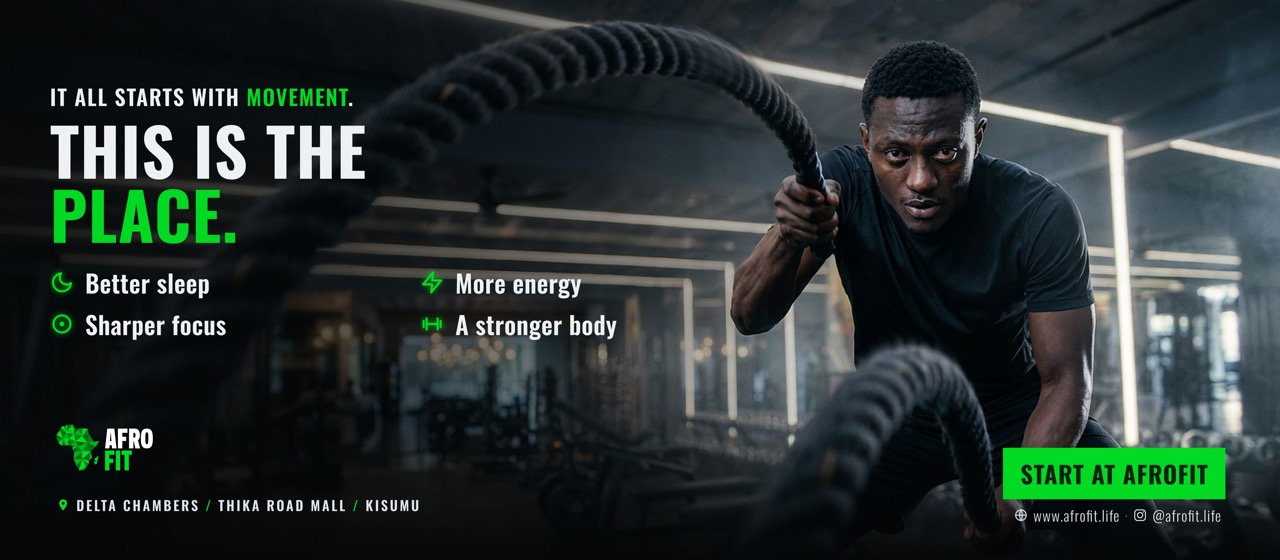
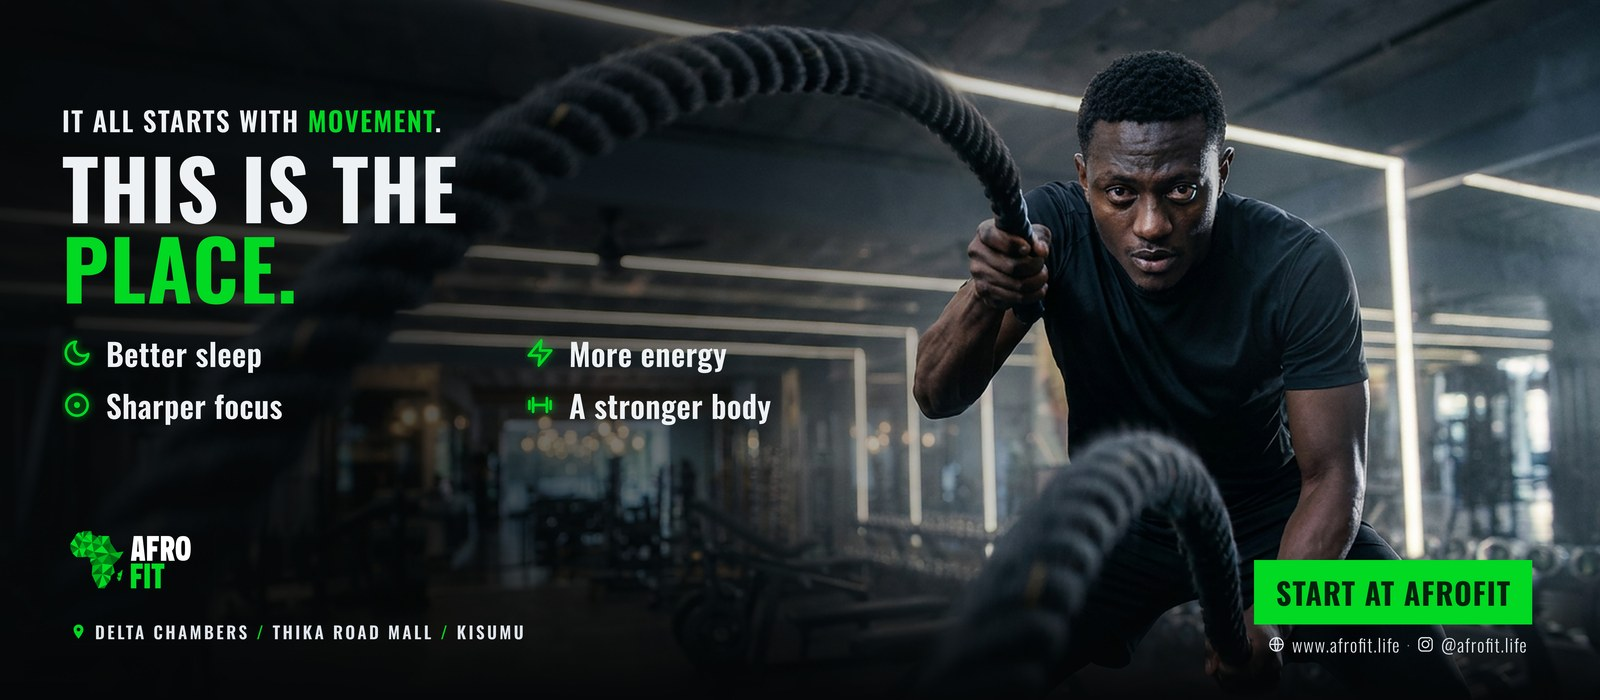
Hub: Figma Isaac newsletter hero, corrected scripts names, print-ready Class billboards, report PDF, Download-everything ZIP + print download buttons

diff --git a/index.html b/index.html
@@ -28,19 +28,30 @@
   details.opts summary::-webkit-details-marker{display:none}
   details.opts[open] summary{border-color:#01D923;color:#01D923;margin-bottom:16px}
   .foot{margin-top:30px;text-align:center;font-size:12px;color:#555;letter-spacing:.06em}
+  a.dlall{display:flex;align-items:center;justify-content:center;gap:8px;text-decoration:none;background:#01D923;color:#0a0a0a;border-radius:13px;padding:16px;text-align:center;font-weight:700;font-size:15px;letter-spacing:.06em;text-transform:uppercase;margin:0 0 8px}
+  a.dlall:active{background:#0bbf2a}
+  .dlhint{font-size:11px;color:#888;text-align:center;letter-spacing:.03em;margin-bottom:24px;line-height:1.4}
+  .cap2{font-size:12px;color:#777;letter-spacing:.08em;text-transform:uppercase;margin:0 0 8px;font-weight:500}
+  a.dl{display:inline-block;text-decoration:none;color:#01D923;font-size:11px;font-weight:600;letter-spacing:.1em;text-transform:uppercase;border:1px solid #2a3d26;border-radius:8px;padding:7px 13px;margin:0 0 20px}
+  a.dl:active{background:#161d16}
 </style>
 </head>
 <body>
 <div class="wrap">
   <div class="eyebrow">This Is The Place &nbsp;·&nbsp; July 2026</div>
   <h1>It&#39;s all <span class="lime">connected</span></h1>
-  <div class="sub">The July campaign in one place. Billboards, the newsletter, and a quick report.</div>
+  <div class="sub">The July campaign in one place. Billboards, the newsletter, the campaign and a quick report — view below, or download it all.</div>
+
+  <a class="dlall" href="afrofit-campaign.zip" download>&#8595;&nbsp; Download everything (ZIP)</a>
+  <div class="dlhint">Presentation, scripts, both billboards (print-ready) and the report, in one file.</div>
 
   <h2>The billboard — pick one</h2>
   <img class="board" src="billboard-class-A.jpg" alt="Class billboard A, from the presentation">
-  <p class="cap"><span class="rec">Option A</span> &nbsp;·&nbsp; the image from the presentation (darker)</p>
+  <p class="cap2"><span class="rec">Option A</span> &nbsp;·&nbsp; the image from the presentation (darker)</p>
+  <a class="dl" href="billboard-class-A-print.pdf" download>&#8595;&nbsp; Print-ready PDF (A)</a>
   <img class="board" src="billboard-class-B.jpg" alt="Class billboard B, brighter">
-  <p class="cap"><span class="rec">Option B</span> &nbsp;·&nbsp; brighter alternative (white tee)</p>
+  <p class="cap2"><span class="rec">Option B</span> &nbsp;·&nbsp; brighter alternative (white tee)</p>
+  <a class="dl" href="billboard-class-B-print.pdf" download>&#8595;&nbsp; Print-ready PDF (B)</a>
 
   <details class="opts">
     <summary>Other options &nbsp;&rsaquo;</summary>